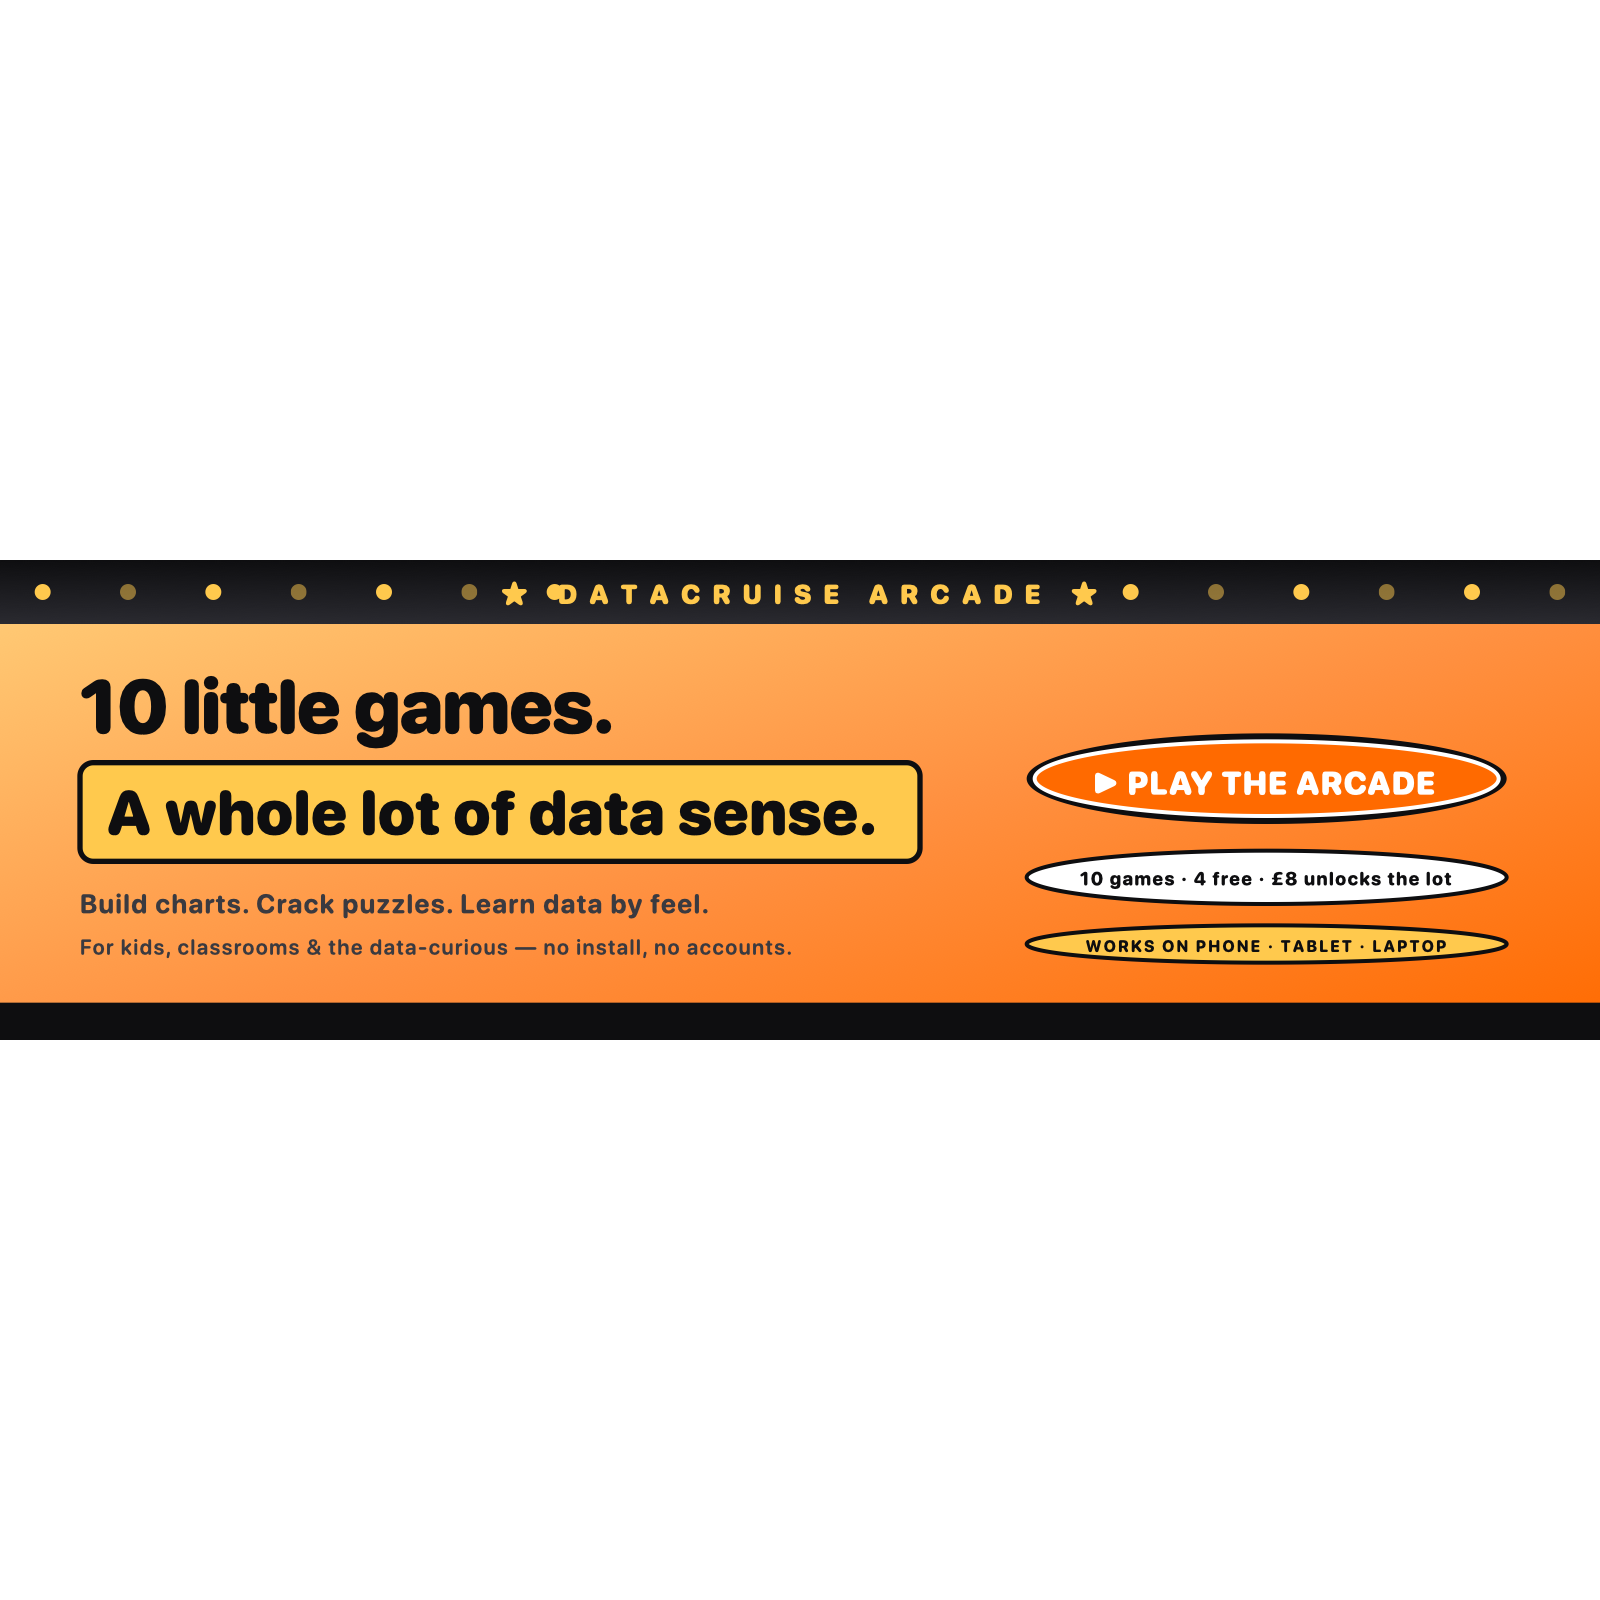
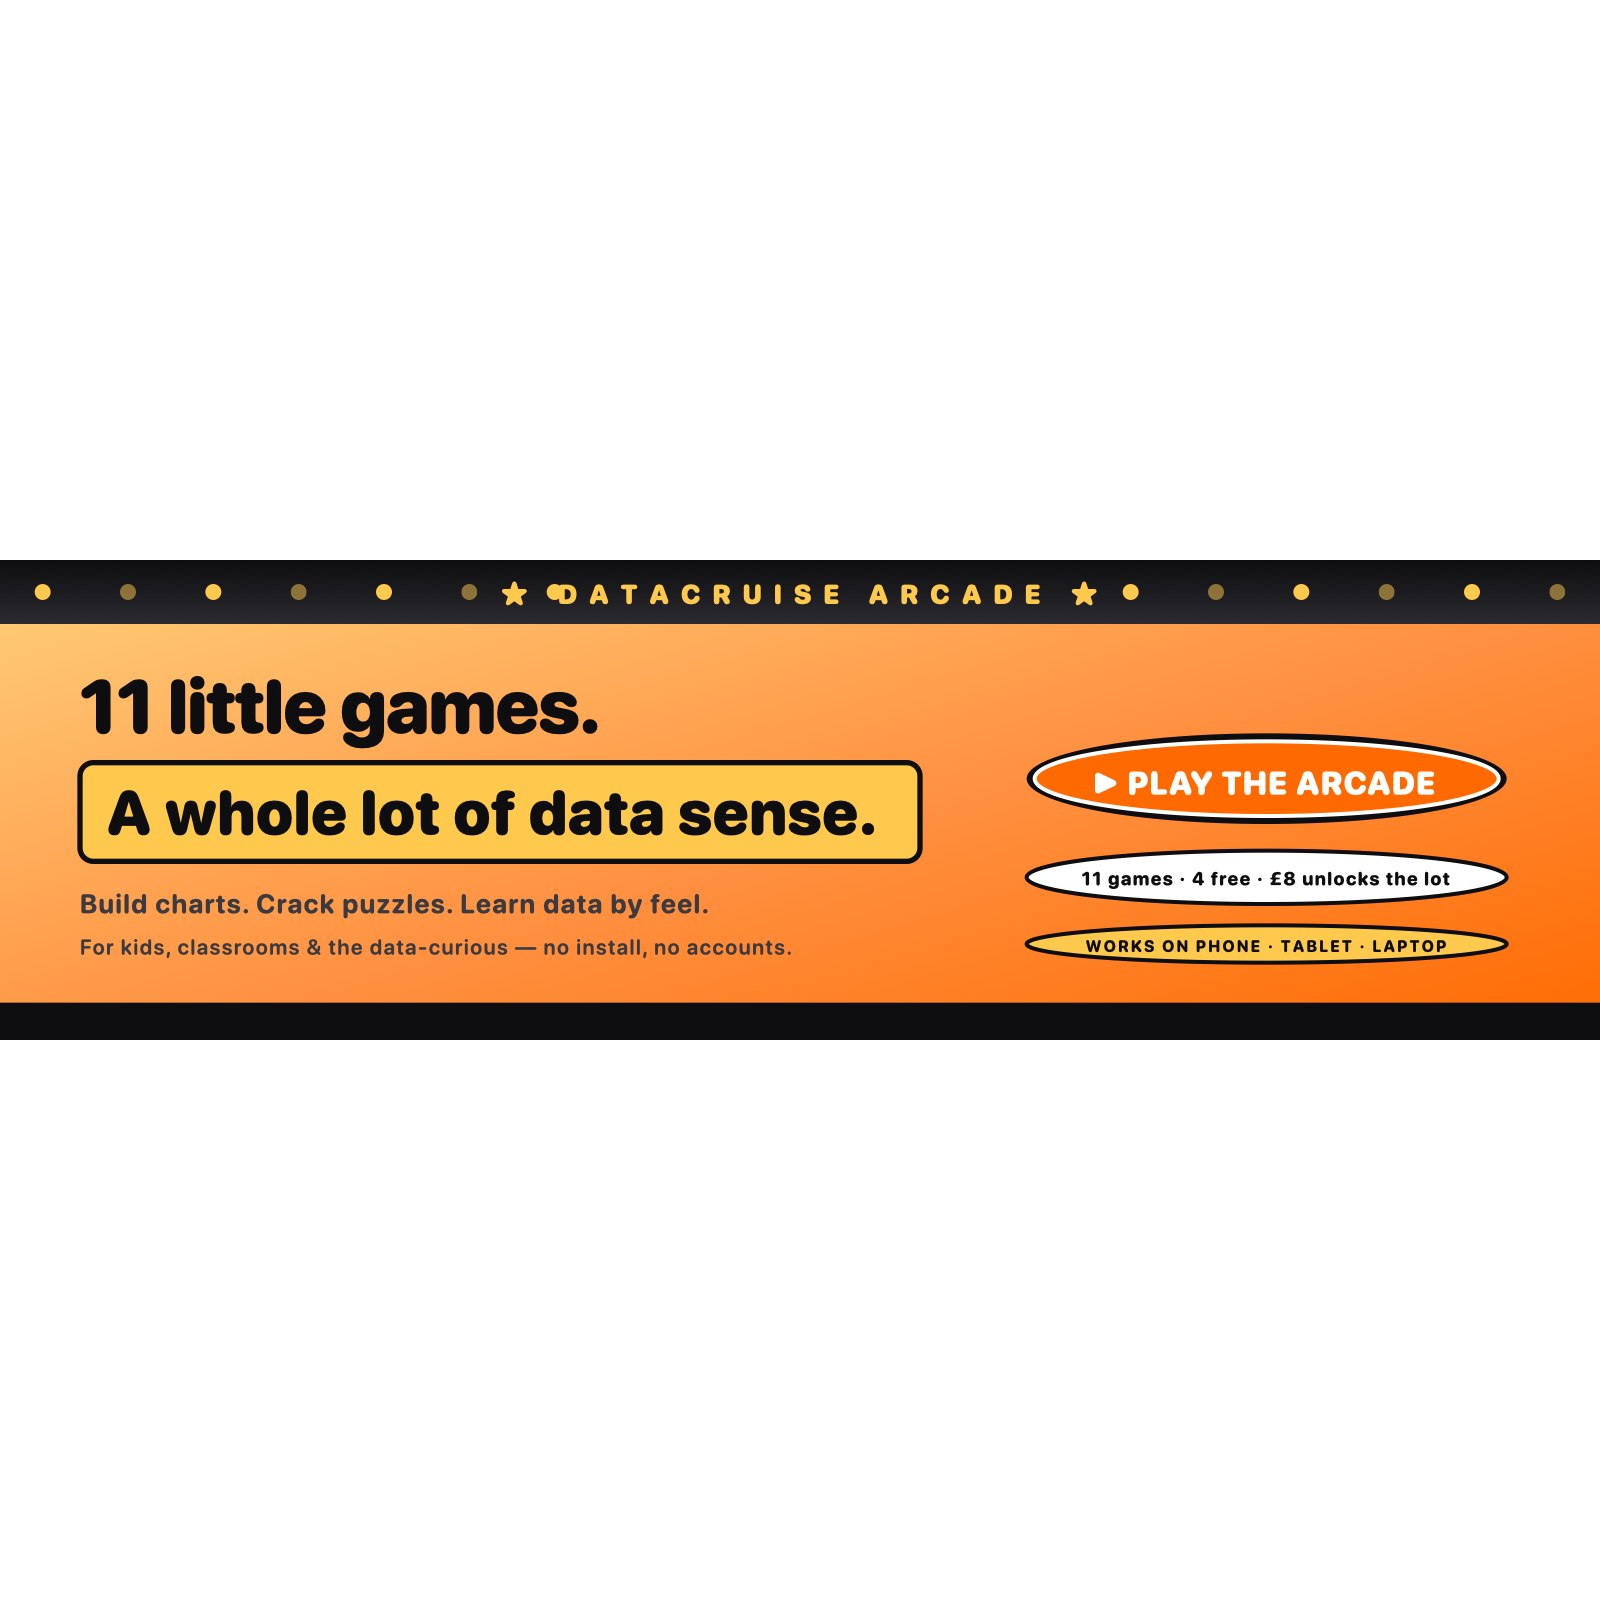
Bump all '10 games' references to '11' (Decision Lab is the 11th)
Decision Lab shipped in commit 338f615 but several copy/asset
references still said '10' / 'Ten'. Sweep across:

- index.html: title, meta description, OG title/description, the
  '£8 · one-time · all 10 games forever' line in the unlock modal,
  and the post-unlock 'All 10 games are now unlocked' message.
- manifest.webmanifest: PWA description now mentions 11 games +
  the decision-making quiz.
- README.md: opening line bumped from 10 to 11 + mentions the quiz.
- shared/previews/og-card.svg: aria-label + headline 10→11.
- shared/previews/wp-banner.svg: aria-label + headline + chip
  ('11 games · 4 free · £8 unlocks the lot'), plus wp-banner.png
  regenerated from the new SVG.
- ~/Documents/DataCruise Arcade Game/DataCruise-Arcade-Welcome.txt:
  unlock instructions now say 'all 11 games', and the game-list
  section now includes Bug-Bug's Decision Lab under Chart Games.
- Operating manual MD: 'Last updated' bumped to 2026-05-31 with
  a note about the addition. PDF regenerated to match.

Decision Lab itself is already locked behind the unlock flow —
'decision-lab' was added to shared/unlock.js CATALOGUE.paid in
commit 338f615, so the same UNLOCK_CODE that unlocks the other
six paid games also unlocks it. No additional configuration
needed for the licence-key flow.

diff --git a/index.html b/index.html
@@ -3,8 +3,8 @@
 <head>
   <meta charset="utf-8" />
   <meta name="viewport" content="width=device-width,initial-scale=1" />
-  <title>DataCruise Arcade — 10 games that teach data, by feel</title>
-  <meta name="description" content="A pack of 10 browser games from DataCruise. Build charts, untangle data jargon, and learn the language of data through play." />
+  <title>DataCruise Arcade — 11 games that teach data, by feel</title>
+  <meta name="description" content="A pack of 11 browser games from DataCruise. Build charts, untangle data jargon, take the data quiz, and learn the language of data through play." />
 
   <!-- Icons & PWA -->
   <link rel="icon" type="image/svg+xml" href="/favicon.svg" />
@@ -15,8 +15,8 @@
   <!-- Open Graph / social cards -->
   <meta property="og:type" content="website" />
   <meta property="og:site_name" content="DataCruise Arcade" />
-  <meta property="og:title" content="DataCruise Arcade — 10 games that teach data, by feel" />
-  <meta property="og:description" content="Build charts. Crack puzzles. Learn the language of data through play. 10 browser games, no install." />
+  <meta property="og:title" content="DataCruise Arcade — 11 games that teach data, by feel" />
+  <meta property="og:description" content="Build charts. Crack puzzles. Take the quiz. Learn the language of data through play. 11 browser games, no install." />
   <meta property="og:image" content="/shared/previews/og-card.svg" />
   <meta property="og:image:width" content="1200" />
   <meta property="og:image:height" content="630" />
@@ -241,7 +241,7 @@
       <div class="unlock-section">
         <h3>Need a key?</h3>
         <p class="unlock-price">
-          <strong>£8</strong> · one-time · all 10 games forever
+          <strong>£8</strong> · one-time · all 11 games forever
         </p>
         <a
           class="btn btn-primary unlock-buy"
@@ -259,7 +259,7 @@
     <div data-unlock-view="success" hidden>
       <div class="unlock-success-icon">🎉</div>
       <h2>You're in.</h2>
-      <p>All 10 games are now unlocked on this device.</p>
+      <p>All 11 games are now unlocked on this device.</p>
       <button type="button" class="btn btn-primary" data-unlock-close>Start playing</button>
     </div>
 

diff --git a/README.md b/README.md
@@ -1,6 +1,6 @@
 # DataCruise Arcade
 
-A pack of 10 browser games that teach the **feel** of data — chart-building and word puzzles, no install, no accounts. Built as plain HTML/CSS/ES-module JavaScript so it can be hosted as a static site anywhere.
+A pack of 11 browser games that teach the **feel** of data — chart-building, word puzzles, and a data-analysis quiz. No install, no accounts. Built as plain HTML/CSS/ES-module JavaScript so it can be hosted as a static site anywhere.
 
 ## What's in the pack
 
